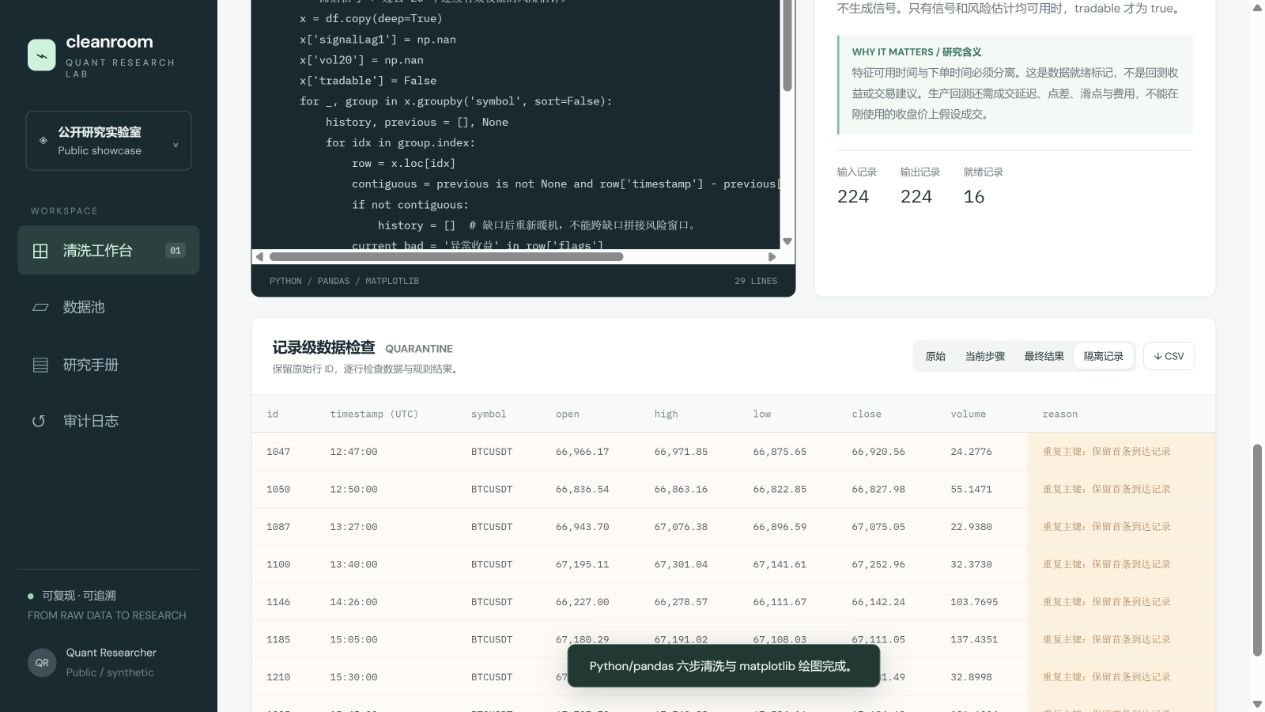
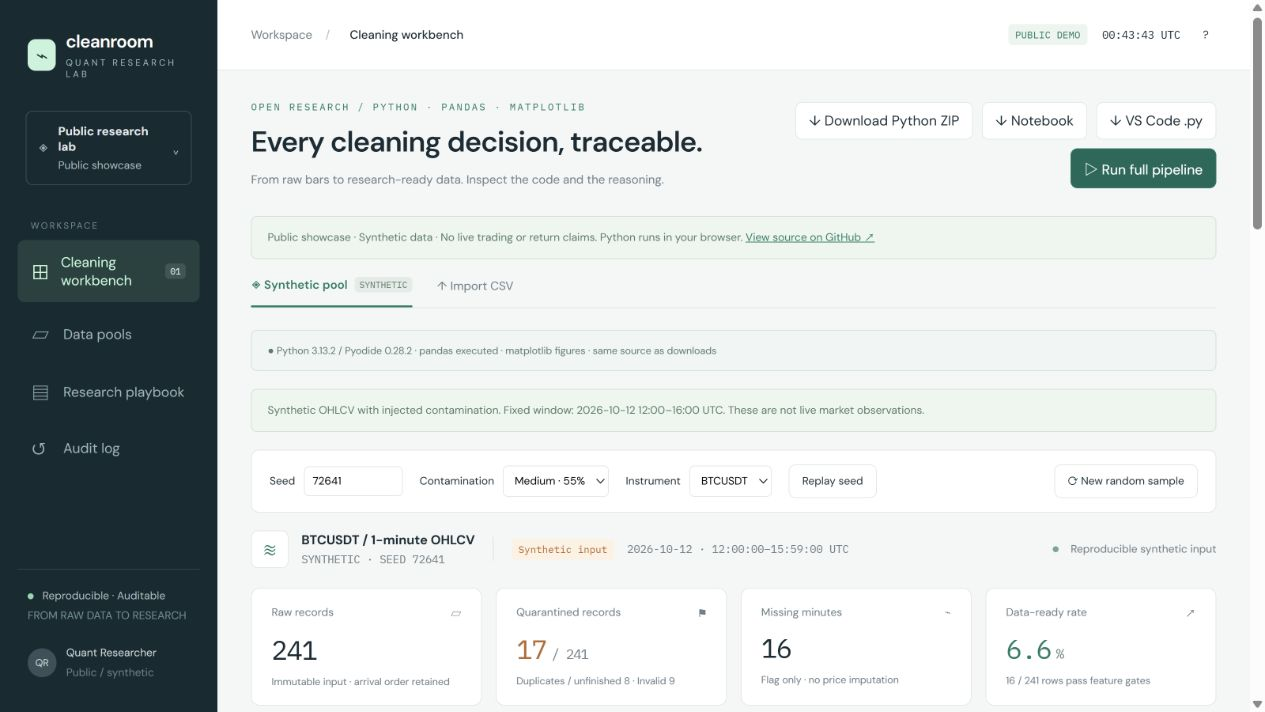
Document architecture and test evidence and enforce English-only public releases

diff --git a/README.md b/README.md
@@ -8,9 +8,18 @@
 
 ### [Open the live demo](https://wilberdu001.github.io/quant-cleanroom-public/) · [Explore the notebook](research.ipynb) · [Read the cleaning engine](cleaning.py)
 
+[Methodology](#cleaning-methodology) · [Architecture](#architecture-one-implementation-two-execution-paths) · [Test evidence](#test-evidence) · [Local setup](#run-the-research-locally)
+
 Turn contaminated one-minute OHLCV records into a traceable research dataset. Inspect the input, the exact Python code, intermediate snapshots, quarantine reasons, and the effect of each decision on downstream features.
 
 This is a reproducible research-engineering showcase using **clearly labeled synthetic data**. It does not report trading performance or claim that a cleaned signal is profitable.
+
+<details>
+<summary>Preview the English research workbench</summary>
+
+![English Python workbench with data-quality metrics and an auditable cleaning pipeline](docs/assets/demo.jpg)
+
+</details>
 
 ## What you can explore
 
@@ -99,3 +108,53 @@ Open [the local preview](http://127.0.0.1:4174/quant-cleanroom-public/). GitHub 
 This public repository contains generic cleaning methods, synthetic fixtures, educational notebooks, and a static demo. It excludes production snapshots, account records, credentials, scheduled collectors, private deployment identifiers, and private Git history. See [the public-release boundary](PUBLIC-BOUNDARY.md).
 
 Equity trading calendars, corporate actions, versioned adjustments, fundamental publication times, survivorship bias, liquidity constraints, latency, spreads, slippage, and fees need separate modeling before these ideas become a realistic backtest.
+
+## Architecture: one implementation, two execution paths
+
+```mermaid
+flowchart LR
+    S[Seeded synthetic bars / local CSV] --> W[Pyodide in the browser]
+    W --> C[cleaning.py / pandas]
+    C --> A[Stage snapshots and quarantine evidence]
+    C --> P[matplotlib diagnostics]
+    S --> E[Self-contained notebook and script exports]
+    E --> L[Local Python / Jupyter / VS Code]
+    L --> C
+```
+
+| Component | Responsibility |
+| --- | --- |
+| [`cleaning.py`](cleaning.py) | The shared schema, validation, gap, anomaly, feature, and plotting implementation. |
+| [`web/ui.html`](web/ui.html) | Stage explanations, controls, metrics, audit tables, and browser-local CSV parsing. |
+| [`web/research.js`](web/research.js) | Pyodide initialization, shared-code execution, and self-contained research-file generation. |
+| [`web/simulate.js`](web/simulate.js) | Deterministic synthetic OHLCV and controlled contamination; it does not perform cleaning. |
+| [`scripts/build-demo.mjs`](scripts/build-demo.mjs) | Embed the Python implementation and browser sources into the static `docs/index.html` artifact. |
+| [`scripts/export-sample.mjs`](scripts/export-sample.mjs) | Rebuild the committed notebook, VS Code script, and fixed-seed dataset from the shared sources. |
+| [`tests/`](tests) | Research invariants, causal-prefix checks, plotting, and executable notebook verification. |
+
+There is no application server, database, broker connection, or collection job in the public demo. GitHub Pages only serves static files. The downloadable research files include the selected data and the same Python source, making the experiment independent of the website after installation.
+
+## Test evidence
+
+[View the latest CI run](https://github.com/wilberdu001/quant-cleanroom-public/actions/workflows/checks.yml).
+
+| Verification | What it checks | Result |
+| --- | --- | --- |
+| Five Python regression tests | Row conservation; unique valid output; anomaly/gap gates; future-prefix invariance; quarantine of invalid inputs; matplotlib PNG output. | Passed locally and included in CI. |
+| Notebook execution | Run the notebook in an isolated kernel, skip the already-satisfied installation cell, and verify CSV and figure outputs. | Passed locally and included in CI. |
+| Public static artifact | Script syntax, literal DOM bindings, synthetic labeling, and absence of private routes, credentials, and deployment identity. | Passed locally and included in CI. |
+| Numerical compatibility | Compare every stage's counts, row IDs, numeric fields, anomaly scores, and readiness flags with the previous public implementation. | Unchanged for the reference experiment. |
+| English-only release | Inspect tracked text and decoded notebook/JSON content, plus English HTML language metadata. | Enforced in CI. |
+
+Run the checks with the virtual environment selected above:
+
+```bash
+python -m pip install -r requirements-dev.txt
+python -m unittest discover -s tests -v
+python tests/execute_notebook.py
+node scripts/build-demo.mjs
+node scripts/check-public.mjs
+node scripts/check-english.mjs
+```
+
+The tests establish implementation and data-quality invariants. They do not establish predictive performance, realistic fills, or production readiness.

diff --git a/RELEASE.md b/RELEASE.md
@@ -1,26 +1,24 @@
-# Public showcase 1.0.0
+# Public showcase 1.1.0
 
-Repository: https://github.com/wilberdu001/quant-cleanroom-public
+[Repository](https://github.com/wilberdu001/quant-cleanroom-public) · [Live demo](https://wilberdu001.github.io/quant-cleanroom-public/)
 
-Demo: https://wilberdu001.github.io/quant-cleanroom-public/
+## English-first research presentation
 
-## Included
+- Reorganized the README around the live demo, quantitative data-cleaning decisions, reproducible setup, architecture, and test evidence.
+- Translated the complete public UI, Python comments/docstrings, audit labels, sample provenance, notebook explanations, script exports, boundary documentation, and screenshots into English.
+- Added a reproducible sample exporter and an English-only release check so generated files and future public changes follow the same policy.
+- Preserved the private complete project's language, code, data access, and Git history.
 
-- Shared Python/pandas OHLCV cleaning with detailed Chinese comments.
-- Synthetic, seeded contamination experiments and browser-local CSV input.
-- Record-level raw, intermediate, final and quarantine inspection.
-- Matplotlib price-quality and data-ready return-distribution figures.
-- Self-contained Jupyter Notebook, VS Code script and project ZIP downloads.
-- Public-release boundary checks, causal invariance tests and executable Notebook CI.
+## Numerical compatibility
 
-## Verified
+Compared with public release 1.0.0, every stage count, row ID, numeric value, anomaly score, and feature-readiness flag is unchanged for seed 72641. Human-readable quarantine reasons and anomaly labels are translated; cleaning rules are unchanged.
 
-The local Python research script, five unittest cases and complete Notebook execution passed. GitHub Actions research checks and GitHub Pages deployment passed. Browser verification at the public URL confirmed Python 3.13.2 / Pyodide 0.28.2 execution, one matplotlib SVG, the expected default sample counts, and an actual Notebook download.
+The reference experiment still produces 241 raw records, 17 quarantined records, 224 accepted records, 16 missing minutes, 4 flagged returns, and 16 data-ready observations. These are synthetic-data quality outcomes, not strategy returns.
 
-The default seed 72641 yields 241 raw records, 17 quarantined records, 16 missing minutes and 16 data-ready observations. These are data-quality outcomes on synthetic input, not strategy returns.
+## Verification
 
-No private market data, user/account records, credentials, deployment identity or private Git history are included. The complete private project's visibility and private website are unchanged.
+Five Python regression tests and complete notebook execution pass locally. The suite covers row conservation, hard constraints, unique keys, gap/anomaly gating, future-prefix invariance, and matplotlib export. The static-public check verifies service separation, script syntax, and UI bindings. GitHub Actions runs these checks and verifies the built demo matches the committed source.
 
 ## Hosting
 
-GitHub Pages publishes the static `docs/` directory from `main`. Python and scientific packages load from the Pyodide CDN on the visitor's computer; initial loading requires internet and can take tens of seconds. After installation, the downloaded research files run locally without network access.
+GitHub Pages publishes `main/docs`. Pyodide executes Python locally in the visitor's browser. First use requires network access to download the runtime and packages. Downloaded research files run offline after dependency installation.

diff --git a/PUBLIC-BOUNDARY.md b/PUBLIC-BOUNDARY.md
@@ -1,11 +1,21 @@
-# 公开版本内容与研究边界
+# Public release boundary
 
-本项目是独立整理的公开教学与工程展示版本，采用新的 Git 历史。它保留通用的 OHLCV 清洗、记录级审计、因果特征检查和同源 Notebook 导出。
+This repository is an independently curated research-engineering showcase with its own Git history. It includes reviewed generic OHLCV cleaning methods, deterministic synthetic fixtures, educational notebooks, and a static, client-side demonstration.
 
-公开输入仅包含可复现合成分钟数据。demo 可在浏览器内处理访客自己选择的 CSV，但没有任何上传接口；文件不发送到项目服务器。实验日志仅保存在访客浏览器的独立本地存储中。CDN 只负责提供 Python、pandas、matplotlib 及字体资源，不接收输入行情。
+## Data and execution
 
-未公开：生产市场池或历史快照、自动采集/写入接口、用户或账户记录、密钥、备份、站点身份及私有仓库 Git 历史。完整版本的访问权限保持不变。
+The committed input contains synthetic one-minute bars only. Visitors may choose a local CSV, but the demo has no upload endpoint: input and calculations remain in browser memory. Experiment logs use a separate local-storage namespace on the visitor's device. CDNs provide the Python runtime, scientific packages, and fonts; the application does not send its input records to those providers.
 
-研究假设：单标的、连续交易市场、UTC 1 分钟 K 线。只检查输入窗口内部缺口。当前收益不参与自身异常基准及风险估计。异常只标记；价格不被截断或猜测填补。数据门槛通过并不证明信号有效或可以按收盘价成交。
+## Excluded material
 
-回测还需要交易日历、版本化复权、样本外验证、流动性、延迟、点差、费用与真实成交约束。此公开演示不报告任何策略 alpha 或实盘表现。
+Production market pools and snapshots, scheduled collection and write endpoints, user/account records, credentials, backups, deployment identifiers, and the private project's Git history are excluded. The complete version retains its existing access controls.
+
+## Research assumptions
+
+The example assumes one instrument in a continuously traded, one-minute market. Gaps are measured only within the supplied window. The current observation does not participate in its own anomaly reference or historical risk estimate. Unusual prices are flagged without being clipped, repaired, or declared invalid solely by a statistical test.
+
+The `tradable` field is a data-readiness gate, not a statement about liquidity, executable prices, prediction quality, or profitability. Equity calendars, versioned corporate-action adjustments, publication-time joins, survivorship bias, out-of-sample evaluation, latency, spreads, slippage, and fees require additional modeling.
+
+## Language and maintenance
+
+Public documentation, UI text, code comments, notebook explanations, sample provenance, screenshots, and release notes use English. Automated checks reject CJK text in tracked textual deliverables and confirm the public demo remains disconnected from private service routes. User-supplied local data is not translated or published.

diff --git a/AGENTS.md b/AGENTS.md
@@ -5,3 +5,7 @@ This is a curated public quant research demonstration. Include only reviewed gen
 Changes should form meaningful, verified milestones. Commit and push each completed milestone separately; do not manufacture empty commits, backdate work or split changes solely to inflate contribution counts.
 
 The owner authorizes reviewed pushes to https://github.com/wilberdu001/quant-cleanroom-public and publication of the static demo on GitHub Pages. Keep the complete project and its existing Site private.
+
+## English-only public content
+
+Keep all public UI text, documentation, code comments/docstrings, notebook explanations, sample provenance, screenshots, and release notes in English. Do not change the private project's language. Regenerate the notebook, script, and static demo from their shared sources, then run the English-only release check before pushing.
